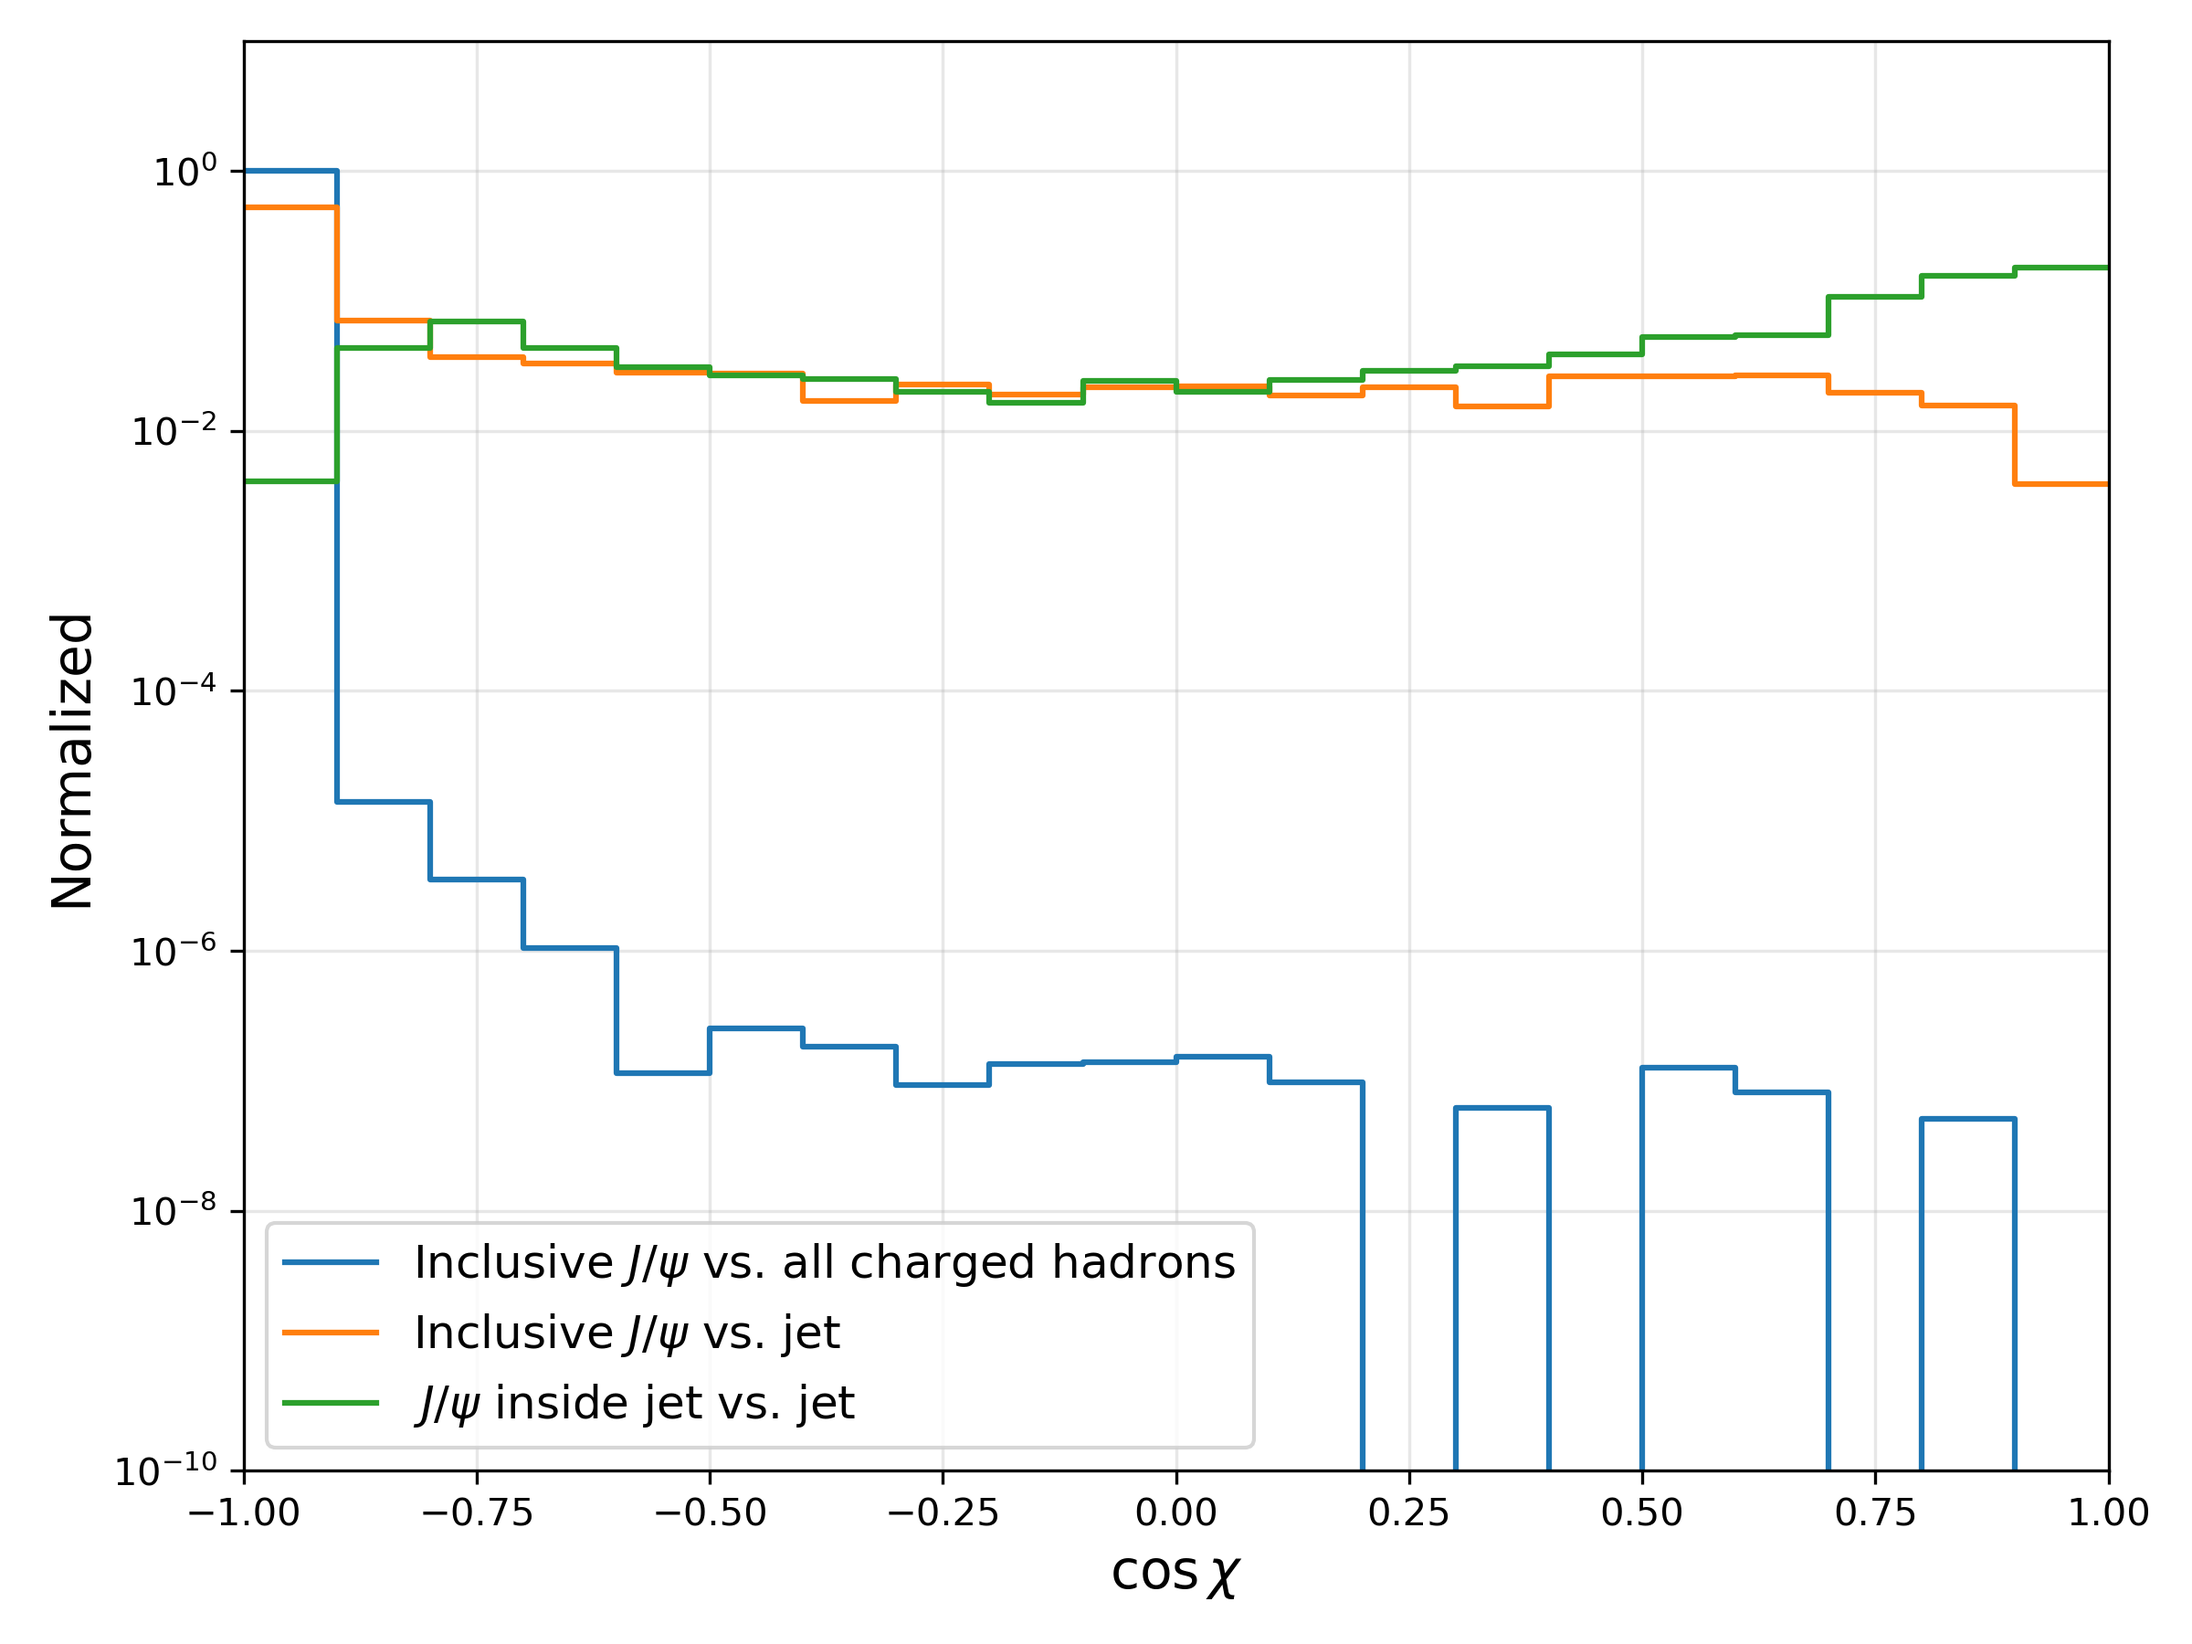
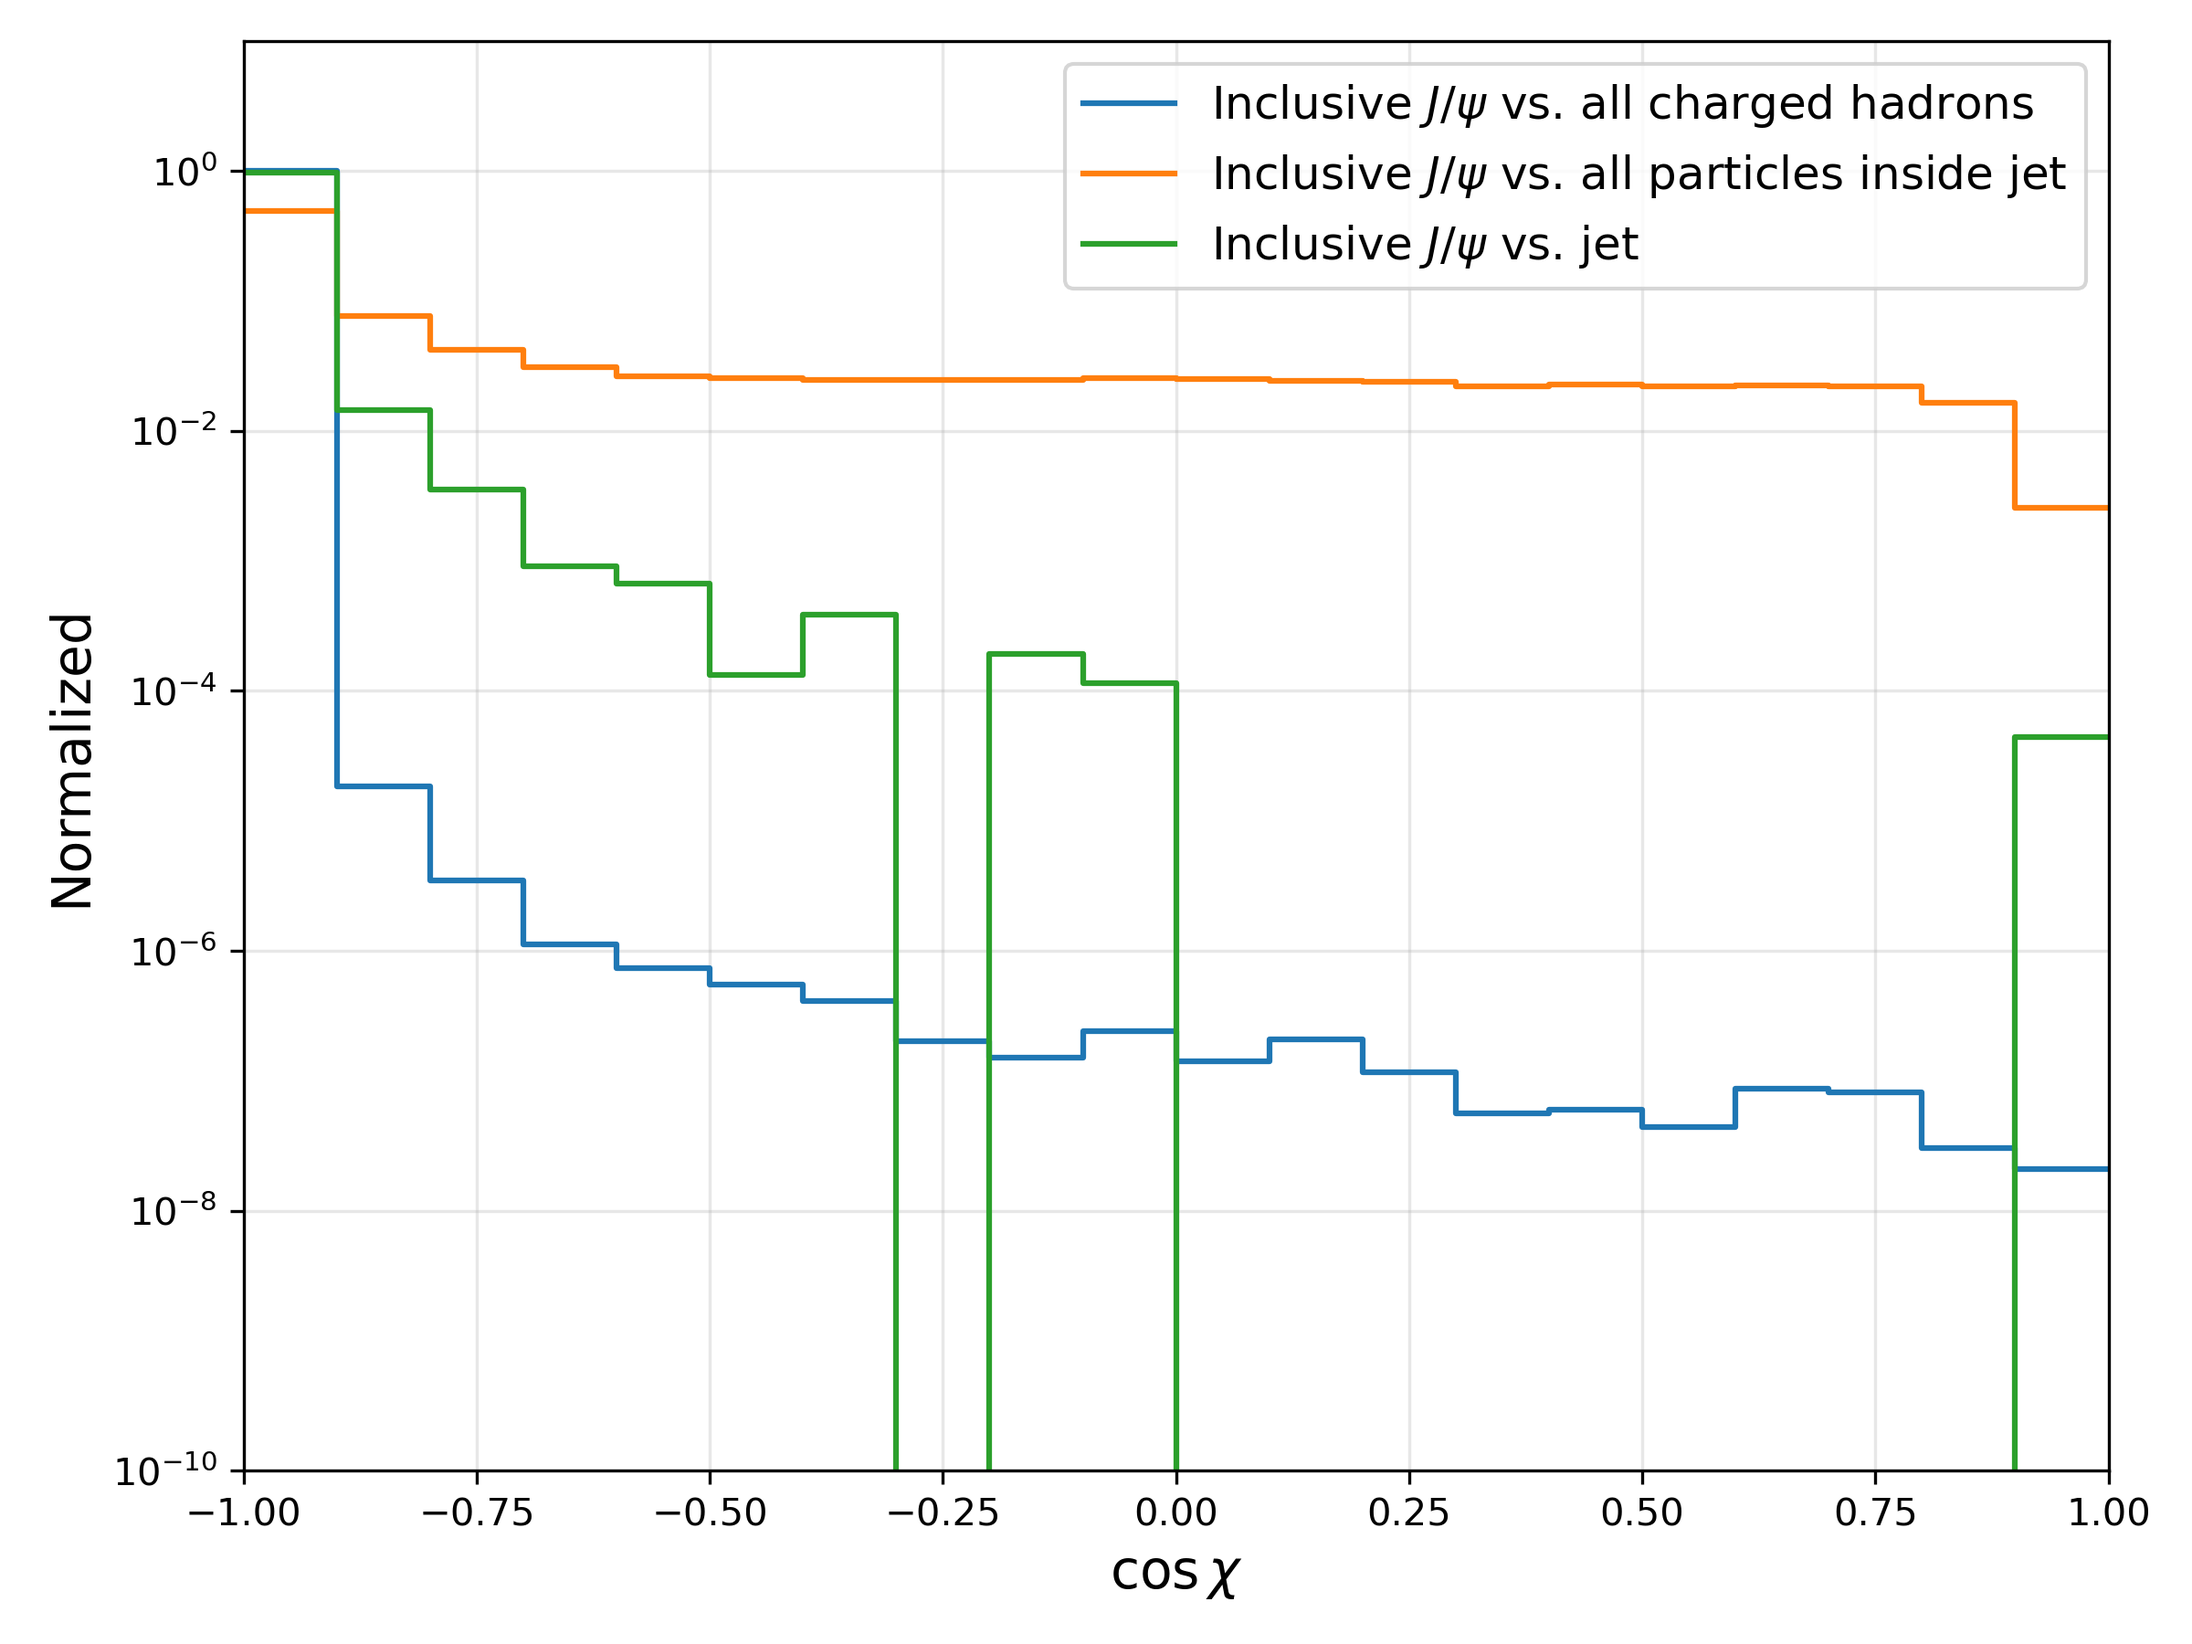
update

diff --git a/QEC/calcQEC/calQEC.cpp b/QEC/calcQEC/calQEC.cpp
@@ -60,8 +60,12 @@ int main(int argc, char* argv[]) {
     TH1D* h_coschi_inclusive_jetconst
         = new TH1D("coschi_inclusive_jetconst", "Inclusive J/#psi + jet constituents;cos#chi;", 20, -1, 1);
 
-    TH1D* h_coschi_jet_jpsi
-        = new TH1D("coschi_jet_jpsi", "AK4 jet + constituents (J/#psi in jet);cos#chi;", 20, -1, 1);
+    TH1D* h_coschi_inclusive_jpsi_jet
+        = new TH1D("coschi_inclusive_jpsi_jet", "Inclusive J/#psi + AK4 jet;cos#chi;", 20, -1, 1);
+
+    // ✨ NEW: J/psi inside AK4 jet (ΔR < 0.4)
+    TH1D* h_coschi_jet_in_jpsi_jet
+        = new TH1D("coschi_jet_in_jpsi_jet", "J/#psi inside AK4 jet + AK4 jet;cos#chi;", 20, -1, 1);
 
 
     Long64_t nEntries = tree->GetEntries();
@@ -72,12 +76,6 @@ int main(int argc, char* argv[]) {
         jpsi.SetPtEtaPhiE(jpsi_pt, jpsi_eta, jpsi_phi, jpsi_energy);
         double m_jpsi = jpsi.M();
         TVector3 boost_jpsi = -jpsi.BoostVector();
-
-        TLorentzVector jet;
-        jet.SetPtEtaPhiE(ak4jet_pt, ak4jet_eta, ak4jet_phi, ak4jet_energy);
-        double m_jet = jet.M();
-        TVector3 boost_jet = -jet.BoostVector();
-
 
         // 1. Inclusive J/psi + charged hadrons
         for (size_t j = 0; j < ch_pt->size(); ++j) {
@@ -99,27 +97,39 @@ int main(int argc, char* argv[]) {
             h_coschi_inclusive_jetconst->Fill(coschi, w);
         }
 
-        // 3. Jet-associated J/psi: use AK4 jet as mother
-    
-        for (size_t j = 0; j < ak4_dau_pt->size(); ++j) {
+        // 3. Inclusive J/psi + AK4 jet (ORIGINAL)
+        if (ak4jet_pt > 0) {
             TLorentzVector h;
-            h.SetPtEtaPhiE(ak4_dau_pt->at(j), ak4_dau_eta->at(j), ak4_dau_phi->at(j), ak4_dau_energy->at(j));
-            h.Boost(boost_jet);
-            double coschi = jet.Vect().Dot(h.Vect()) / (jet.Vect().Mag() * h.Vect().Mag());
-            double w = h.E() / m_jet;
-            h_coschi_jet_jpsi->Fill(coschi, w);
+            h.SetPtEtaPhiE(ak4jet_pt, ak4jet_eta, ak4jet_phi, ak4jet_energy);
+            h.Boost(boost_jpsi);
+
+            double coschi = jpsi.Vect().Dot(h.Vect()) / (jpsi.Vect().Mag() * h.Vect().Mag());
+            double w = h.E() / m_jpsi;
+            h_coschi_inclusive_jpsi_jet->Fill(coschi, w);
         }
-        
+
+        // ✨ 4. NEW: J/psi INSIDE jet (ΔR < 0.4)
+        if (ak4jet_pt > 0 && ak4jet_dr_jpsi < 0.4) {
+            TLorentzVector h;
+            h.SetPtEtaPhiE(ak4jet_pt, ak4jet_eta, ak4jet_phi, ak4jet_energy);
+            h.Boost(boost_jpsi);
+
+            double coschi = jpsi.Vect().Dot(h.Vect()) / (jpsi.Vect().Mag() * h.Vect().Mag());
+            double w = h.E() / m_jpsi;
+            h_coschi_jet_in_jpsi_jet->Fill(coschi, w);
+        }
+
     }
 
     TFile* outFile = new TFile(argv[2], "RECREATE");
     h_coschi_inclusive_chadrons->Write();
     h_coschi_inclusive_jetconst->Write();
-    h_coschi_jet_jpsi->Write();
+    h_coschi_inclusive_jpsi_jet->Write();
+    h_coschi_jet_in_jpsi_jet->Write();  
     outFile->Close();
 
     inputFile->Close();
-    cout << "QEC calculation completed successfully." << endl;
+    cout << "Inclusive QEC done." << endl;
 
     return 0;
 }

diff --git a/QEC/plot/draw.py b/QEC/plot/draw.py
@@ -2,22 +2,25 @@ import uproot
 import numpy as np
 import matplotlib.pyplot as plt
 
-file = uproot.open("../result/jpsi_in_jet.root")
+file = uproot.open("../result/jpsi_InJet_20000ev.root")
 
-# 读取 3 个 histogram
-h_incl    = file["coschi_inclusive_chadrons"]
-h_jet_all = file["coschi_inclusive_jetconst"]
-h_jet_mat = file["coschi_jet_jpsi"]
+# 读取 4 个 histogram
+h_incl        = file["coschi_inclusive_chadrons"]
+h_jet_all     = file["coschi_inclusive_jetconst"]
+h_jet         = file["coschi_inclusive_jpsi_jet"]
+h_jet_inside  = file["coschi_jet_in_jpsi_jet"]  
 
 # 转成 numpy 数组
-v_incl, e_incl     = h_incl.to_numpy()
-v_jet_all, e_jet_all = h_jet_all.to_numpy()
-v_jet_mat, e_jet_mat = h_jet_mat.to_numpy()
+v_incl, e_incl         = h_incl.to_numpy()
+v_jet_all, e_jet_all   = h_jet_all.to_numpy()
+v_jet, e_jet           = h_jet.to_numpy()
+v_jet_inside, e_jet_in = h_jet_inside.to_numpy() 
 
-# 归一化（每条都归一化到 1）
-v_incl    = v_incl / np.sum(v_incl)
-v_jet_all = v_jet_all / np.sum(v_jet_all)
-v_jet_mat = v_jet_mat / np.sum(v_jet_mat)
+# 归一化
+v_incl        = v_incl / np.sum(v_incl)
+v_jet_all     = v_jet_all / np.sum(v_jet_all)
+v_jet         = v_jet / np.sum(v_jet)
+v_jet_inside  = v_jet_inside / np.sum(v_jet_inside) 
 
 # ----------------------
 # 画图
@@ -25,19 +28,20 @@ v_jet_mat = v_jet_mat / np.sum(v_jet_mat)
 plt.figure(figsize=(8,6))
 
 plt.step(e_incl,    np.append(v_incl, v_incl[-1]),    where='post', label=r"Inclusive $J/\psi$ vs. all charged hadrons")
-plt.step(e_jet_all, np.append(v_jet_all, v_jet_all[-1]), where='post', label=r"Inclusive $J/\psi$ vs. jet")
-plt.step(e_jet_mat, np.append(v_jet_mat, v_jet_mat[-1]), where='post', label=r"$J/\psi$ inside jet vs. jet")
+plt.step(e_jet_all, np.append(v_jet_all, v_jet_all[-1]), where='post', label=r"Inclusive $J/\psi$ vs. all particles inside jet")
+plt.step(e_jet,     np.append(v_jet,     v_jet[-1]),     where='post', label=r"Inclusive $J/\psi$ vs. jet")
+plt.step(e_jet_in,  np.append(v_jet_inside, v_jet_inside[-1]),  where='post', label=r"$J/\psi$ inside AK4 jet vs. jet") 
 
 plt.xlabel(r"$\cos\chi$", fontsize=14)
 plt.ylabel("Normalized", fontsize=14)
 plt.yscale("log")
 plt.xlim(-1, 1)
-plt.ylim(1e-10, 10)  
+plt.ylim(1e-8, 1.0)  
 plt.grid(alpha=0.3)
 plt.legend(fontsize=12)
 plt.tight_layout()
 
-plt.savefig("coschi_3cases.png", dpi=300)
+plt.savefig("coschi_4cases.png", dpi=300)
 plt.close()
 
-print("✅ Finished drawing coschi_3cases.png")
+print("✅ Finished drawing coschi_4cases.png")

diff --git a/test/runMiniAnalyzer_cfg.py b/test/runMiniAnalyzer_cfg.py
@@ -6,7 +6,7 @@ process = cms.Process("MiniAnalyzer")
 
 process.load("FWCore.MessageService.MessageLogger_cfi")
 process.MessageLogger.cerr.FwkReport.reportEvery = 100
-process.maxEvents = cms.untracked.PSet(input=cms.untracked.int32(1000))  
+process.maxEvents = cms.untracked.PSet(input=cms.untracked.int32(20000))  
 
 process.load("Configuration.StandardSequences.Services_cff")
 process.load("Configuration.StandardSequences.MagneticField_cff")
@@ -22,12 +22,13 @@ process.Timing = cms.Service("Timing",
 
 process.source = cms.Source("PoolSource",
     fileNames = cms.untracked.vstring(
-        'root://cms-xrd-global.cern.ch//store/mc/Run3Winter23MiniAOD/JPsiTo2Mu_Pt-0To100_pythia8-gun/MINIAODSIM/GTv3Digi_GTv3_MiniGTv3_126X_mcRun3_2023_forPU65_v3-v2/2550000/03f2d74a-7822-44fb-a914-dec5eaaa7b3e.root'
+        #'root://cms-xrd-global.cern.ch//store/mc/RunIII2024Summer24MiniAODv6/QCD_Bin-PT-600to800_TuneCP5_13p6TeV_pythia8/MINIAODSIM/150X_mcRun3_2024_realistic_v2-v2/120000/001ed309-7cae-4607-9912-42b5f774b870.root'
+         'root://cms-xrd-global.cern.ch//store/mc/Run3Winter23MiniAOD/JPsiTo2Mu_Pt-0To100_pythia8-gun/MINIAODSIM/GTv3Digi_GTv3_MiniGTv3_126X_mcRun3_2023_forPU65_v3-v2/2550000/03f2d74a-7822-44fb-a914-dec5eaaa7b3e.root'    
     )
 )
 
 process.TFileService = cms.Service("TFileService",
-                                   fileName=cms.string("./result/test_JpsiInJet_1000ev.root"))
+                                   fileName=cms.string("./result/jpsi_InJet_20000ev.root"))
 
 # ------------------------------
 # Muon cleaning and selection

diff --git a/plugins/MiniAnalyzer.cc b/plugins/MiniAnalyzer.cc
@@ -191,7 +191,7 @@ void MiniAnalyzer::matchJetsToJpsi(
     }
 
     if (!bestJet) return;
-    if (minDR > jetR) return;
+    //if (minDR > jetR) return;
 
     dr_jpsi = minDR;
     jet_pt = bestJet->pt();
@@ -336,9 +336,9 @@ void MiniAnalyzer::analyze(const edm::Event& iEvent, const edm::EventSetup&)
         ak8_dau_pt, ak8_dau_eta, ak8_dau_phi, ak8_dau_energy,
         0.8, jptCut, jetaCut);
 
-    bool inAK4 = (ak4jet_dr_jpsi < 0.4);
-    bool inAK8 = (ak8jet_dr_jpsi < 0.8);
-    if (!inAK4 && !inAK8) return;
+    //bool inAK4 = (ak4jet_dr_jpsi < 0.4);
+    //bool inAK8 = (ak8jet_dr_jpsi < 0.8);
+    //if (!inAK4 && !inAK8) return;
 
     tree_->Fill();
 }
